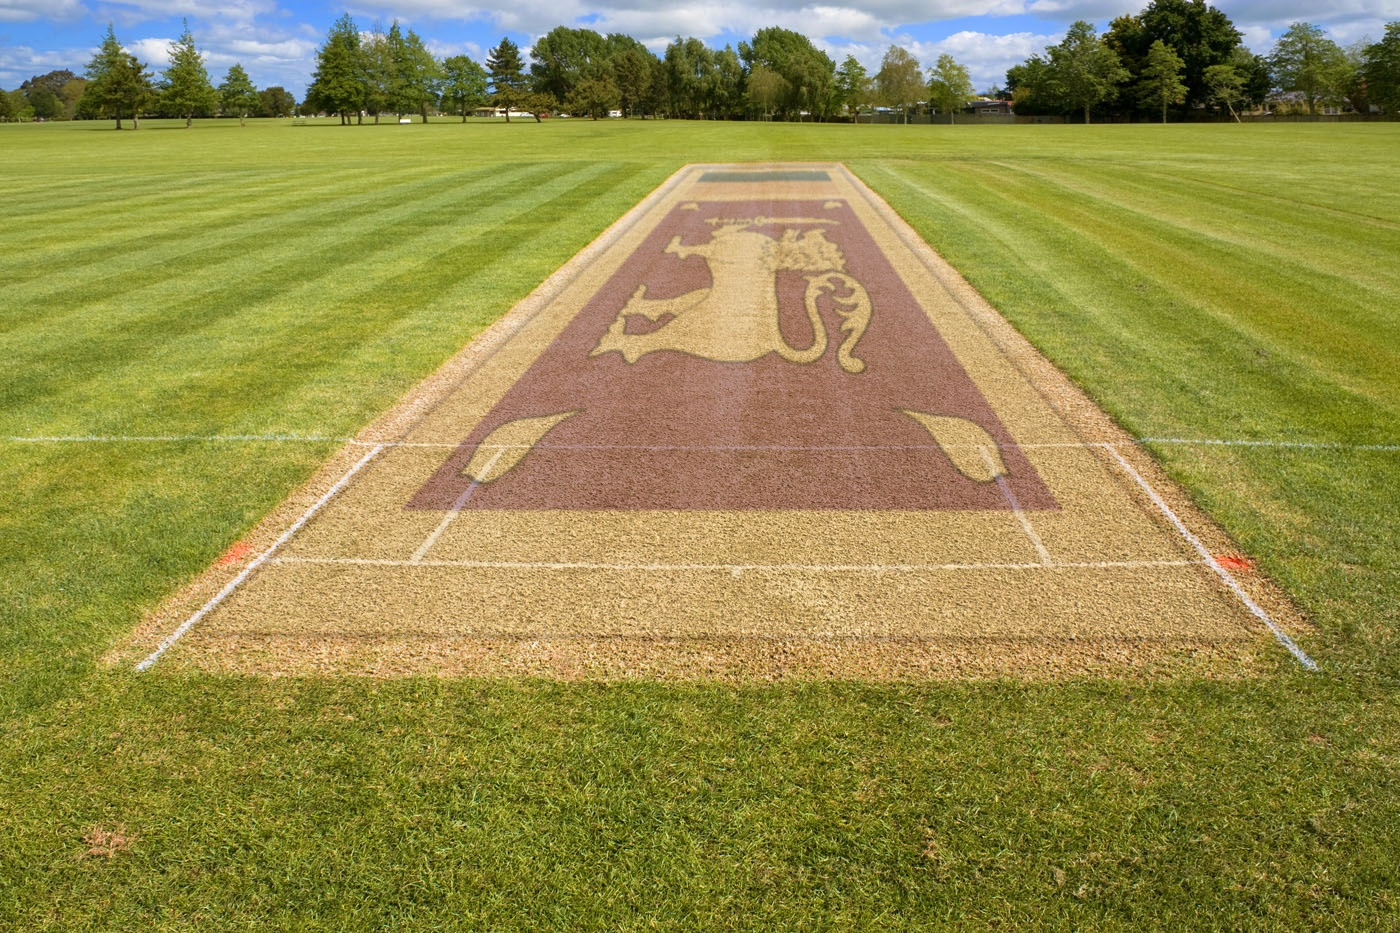
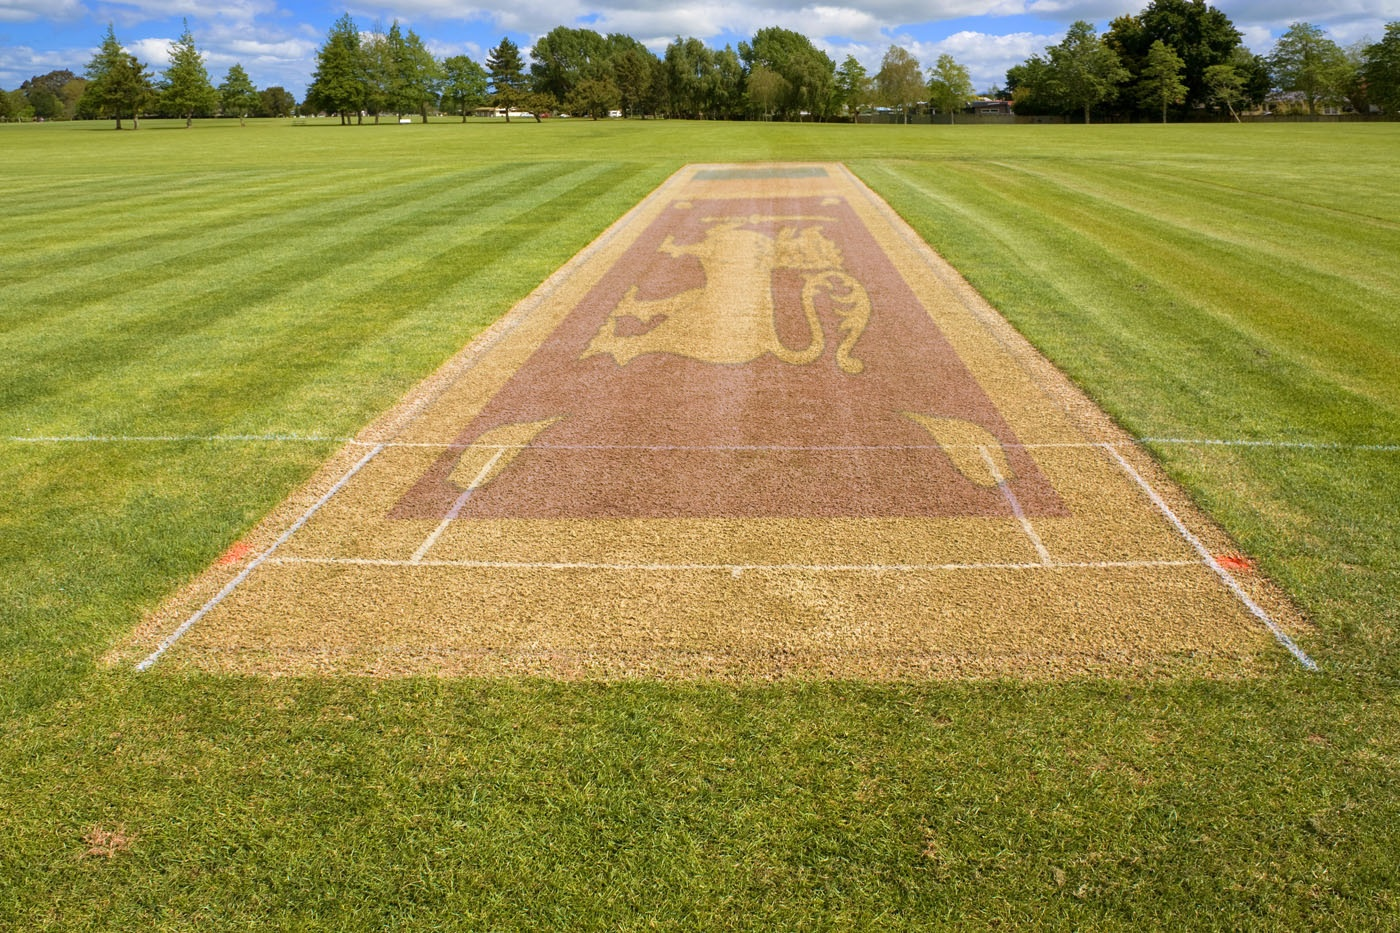
Update with final results

diff --git a/src/q3.py b/src/q3.py
@@ -5,13 +5,13 @@ TURF_PATH = "assets/turf.jpg"
 FLAG_PATH = "assets/flag.png"
 OUTPUT_PATH = "output/turf_with_flag.jpg"
 
-ALPHA = 0.50           # overall alpha blend; 0 = turf only, 1 = flag only
+ALPHA = 0.30           # overall alpha blend; 0 = turf only, 1 = flag only
 FEATHER = 31           # edge softness (odd number)
 ROTATE_FLAG_K = 1      # 0=no rotate, 1=90° CW, 2=180, 3=270 CW
 
-SAT_SCALE = 0.50       # <1 makes it less "neon"
-VAL_SCALE = 0.80      # <1 slightly darker
-TEXTURE_MIX = 1     # how much turf texture imprints on the flag [0..1]
+SAT_SCALE = 0.70       # <1 makes it less "neon"
+VAL_SCALE = 0.80       # <1 slightly darker
+TEXTURE_MIX = 1        # how much turf texture imprints on the flag [0..1]
 GAUSS_BLUR = 5         # small blur on warped flag to blend into scene
 
 
@@ -105,7 +105,7 @@ def overlay_flag_realistic(turf, flag, dst_quad,
     mod = (1.0 + texture_mix * texture)[:, :, None] # modulate value for brightness; make 3 channel
     warped_flag_f = np.clip(warped_flag_f * mod, 0, 1)
 
-    # ---- final alpha blend only in masked region ----
+    # final alpha blend only in masked region
     turf_f = turf.astype(np.float32) / 255.0
     out = turf_f * (1 - alpha*m) + warped_flag_f * (alpha*m)    # apply mask to make realistic.
     out = np.clip(out * 255.0, 0, 255).astype(np.uint8)
@@ -163,9 +163,9 @@ def main():
     cv2.imwrite(OUTPUT_PATH, result)
     print(f"Saved: {OUTPUT_PATH}")
 
-    cv2.namedWindow("Result (realistic)", cv2.WINDOW_NORMAL)
-    cv2.resizeWindow("Result (realistic)", 1200, 800)  # resizable output window
-    cv2.imshow("Result (realistic)", result)
+    cv2.namedWindow("Result", cv2.WINDOW_NORMAL)
+    cv2.resizeWindow("Result", 1200, 800)  # resizable output window
+    cv2.imshow("Result", result)
     cv2.waitKey(0)
     cv2.destroyAllWindows()
 
